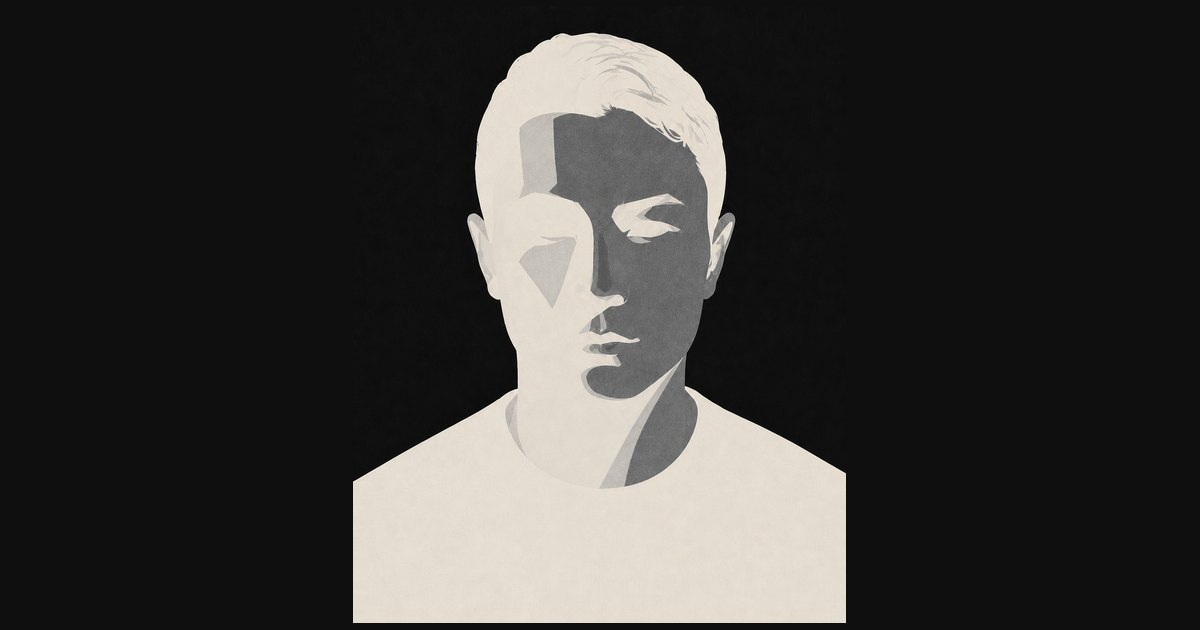
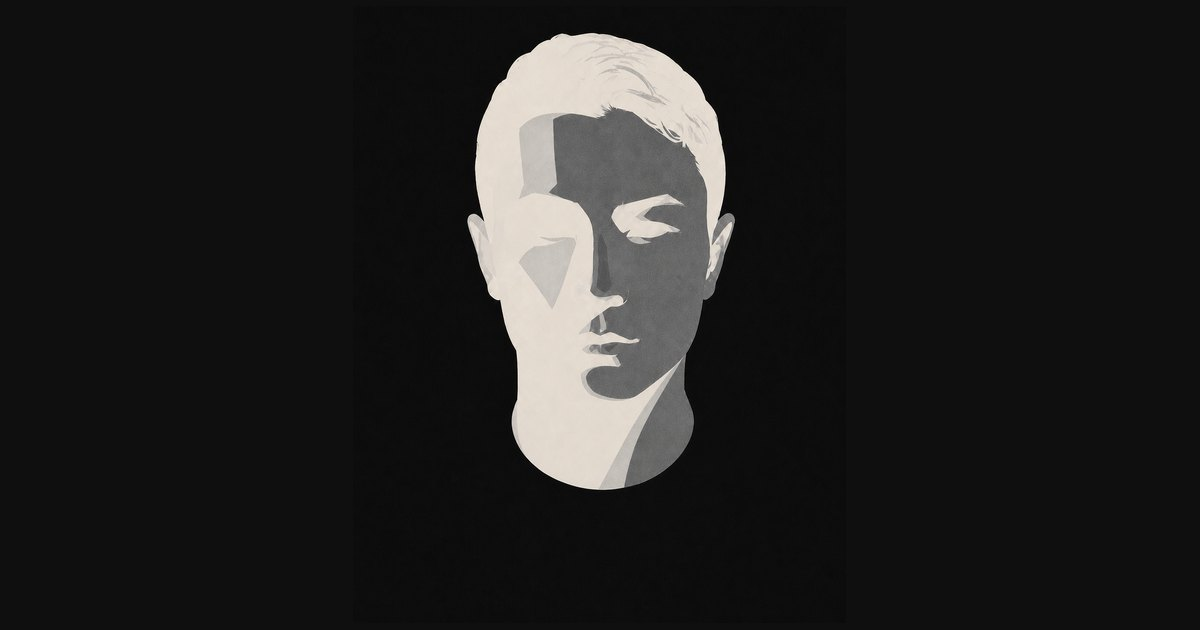
Rework homepage hero and refresh bio
- Replace the portrait with the head-and-neck artwork (no shoulders) and
  merge its ground into the column with mix-blend-mode over a matching
  --plate, so the image frame leaves no visible rectangle.
- Rebuild the hero as a continuous black editorial column at 38/62, with
  the portrait smaller and its head sitting at 35% of the column height.
- Bracket the quotation with slim bands of the same black at its head and
  foot on desktop; stacked layouts keep the foot band only.
- Add four quotations to the rotation (Sockman, Asimov, Harris,
  Kalanithi) — seven in all; rotation logic unchanged.
- Bio: drop the name heading (the section label is now the h1) and use the
  revised third-person biography, with metadata updated to match.
- Point Builds at geneleung.org/builds.

diff --git a/styles.css b/styles.css
@@ -9,7 +9,7 @@
   --ink: #14120e;
   --ink-soft: #3a362d;
   --ink-muted: #6b6355;
-  --plate: #0f0f0f;
+  --plate: #101010;
   --rule: rgba(20, 18, 14, 0.16);
   --rule-strong: rgba(20, 18, 14, 0.32);
 
@@ -19,6 +19,10 @@
     Arial, sans-serif;
 
   --masthead-h: 4.75rem;
+  --band: clamp(2.5rem, 5.5vh, 4rem);
+  /* The artwork's head sits at ~31% of its height, so a centred image already
+     places the head high in the column; this lifts it a little further. */
+  --head-shift: -5%;
   --gutter: clamp(1.25rem, 5vw, 4.5rem);
 }
 
@@ -172,37 +176,71 @@ a {
 
 .split {
   display: grid;
-  grid-template-columns: minmax(0, 46fr) minmax(0, 54fr);
+  grid-template-columns: minmax(0, 38fr) minmax(0, 62fr);
   flex: 1 1 auto;
   min-height: 0;
 }
 
+/* The black column is page architecture: the portrait sits low inside it,
+   surrounded by black, and the field continues as a band under the quotation. */
 .plate {
   background: var(--plate);
   display: flex;
   align-items: center;
   justify-content: center;
+  padding: 0 clamp(1rem, 2.5vw, 2.75rem);
   overflow: hidden;
 }
 
 .plate picture {
   display: block;
-  width: 100%;
-  height: 100%;
+  width: auto;
+  height: auto;
+  aspect-ratio: 1122 / 1402;
+  max-width: min(86%, 30rem);
+  max-height: 68%;
 }
 
+/* The artwork's own ground runs 10–16 in each channel, so blending it against a
+   --plate of the same top value flattens the frame away completely: the ground
+   resolves to exactly the column colour while every part of the figure (41 and
+   up) is left untouched. No masking, and no edit to the supplied file. */
 .portrait {
   width: 100%;
   height: 100%;
   object-fit: contain;
-  object-position: center;
+  transform: translateY(var(--head-shift));
+  mix-blend-mode: lighten;
 }
 
 .quotation {
+  position: relative;
   display: grid;
   align-content: center;
   justify-items: start;
   padding: clamp(3rem, 7vh, 6rem) clamp(1.5rem, 6vw, 6rem);
+  padding-top: calc(var(--band) + clamp(3rem, 7vh, 6rem));
+  padding-bottom: calc(var(--band) + clamp(3rem, 7vh, 6rem));
+}
+
+/* Slim continuations of the black column at the head and foot of the
+   quotation, bracketing it and tying the two sides together. */
+.quotation::before,
+.quotation::after {
+  content: "";
+  position: absolute;
+  right: 0;
+  left: 0;
+  height: var(--band);
+  background: var(--plate);
+}
+
+.quotation::before {
+  top: 0;
+}
+
+.quotation::after {
+  bottom: 0;
 }
 
 .quote {
@@ -276,8 +314,8 @@ html:not(.no-js) .quote.is-active {
   padding: clamp(3rem, 9vh, 6rem) var(--gutter) clamp(3.5rem, 10vh, 6rem);
 }
 
-.eyebrow {
-  margin: 0 0 1.4rem;
+.prose .eyebrow {
+  margin: 0 0 1.6rem;
   font-family: var(--sans);
   font-size: 0.74rem;
   font-weight: 500;
@@ -435,31 +473,44 @@ html:not(.no-js) .quote.is-active {
 @media (max-width: 899px) {
   .split {
     grid-template-columns: 1fr;
-    flex: 0 0 auto;
+    grid-template-rows: auto 1fr;
+    flex: 1 1 auto;
     min-height: 0;
     padding: clamp(1.75rem, 5vh, 3rem) var(--gutter) 0;
   }
 
-  /* The plate hugs the artwork so no dead black field appears around it. */
+  /* Stacked, the black field becomes a full-bleed band with the portrait
+     resting on its lower edge, aligned with the text below. */
   .plate {
-    justify-self: start;
-    height: auto;
+    --head-shift: -2%;
+    justify-self: stretch;
+    justify-content: flex-start;
+    margin-inline: calc(var(--gutter) * -1);
+    padding: 0 var(--gutter);
+    height: clamp(16rem, 40vh, 24rem);
+    height: clamp(16rem, 40svh, 24rem);
   }
 
-  .plate picture,
-  .portrait {
-    width: auto;
-    height: auto;
-    max-width: 100%;
-    max-height: min(48vh, 74vw);
-    max-height: min(48svh, 74vw);
-    /* The box already matches the artwork's ratio, so no fitting is needed. */
-    object-fit: fill;
+  .plate picture {
+    max-width: min(62%, 16rem);
+    max-height: 78%;
   }
 
   .quotation {
-    padding: clamp(2.25rem, 6vh, 3.25rem) 0 clamp(3rem, 9vh, 4.5rem);
+    padding: clamp(2.25rem, 6vh, 3.25rem) 0
+      calc(var(--band) + clamp(2rem, 6vh, 3.25rem));
     justify-items: start;
+  }
+
+  /* Stacked, the portrait's own band already caps the page, so only the foot
+     band remains — and it runs the full width. */
+  .quotation::before {
+    display: none;
+  }
+
+  .quotation::after {
+    right: calc(var(--gutter) * -1);
+    left: calc(var(--gutter) * -1);
   }
 
   .quote {

diff --git a/bio.html b/bio.html
@@ -5,7 +5,7 @@
     <meta name="viewport" content="width=device-width, initial-scale=1" />
 
     <title>Bio — Gene Leung</title>
-    <meta name="description" content="Gene Leung trained in medicine at CUHK and in orthopaedic surgery through the Hong Kong and Edinburgh fellowship systems, and holds an LLB from the University of London." />
+    <meta name="description" content="Gene Leung studied medicine and trained as an orthopaedic surgeon in Hong Kong, attaining fellowships locally and through Edinburgh, and later completed an LLB with the University of London." />
     <link rel="canonical" href="https://www.drgeneleung.com/bio" />
     <meta name="color-scheme" content="light" />
     <meta name="theme-color" content="#f4efe5" />
@@ -13,7 +13,7 @@
     <meta property="og:type" content="website" />
     <meta property="og:site_name" content="Gene Leung" />
     <meta property="og:title" content="Bio — Gene Leung" />
-    <meta property="og:description" content="Gene Leung trained in medicine at CUHK and in orthopaedic surgery through the Hong Kong and Edinburgh fellowship systems, and holds an LLB from the University of London." />
+    <meta property="og:description" content="Gene Leung studied medicine and trained as an orthopaedic surgeon in Hong Kong, attaining fellowships locally and through Edinburgh, and later completed an LLB with the University of London." />
     <meta property="og:url" content="https://www.drgeneleung.com/bio" />
     <meta property="og:image" content="https://www.drgeneleung.com/assets/og.jpg" />
     <meta property="og:image:width" content="1200" />
@@ -21,7 +21,7 @@
     <meta property="og:image:alt" content="Stylised editorial portrait of Gene Leung." />
     <meta name="twitter:card" content="summary_large_image" />
     <meta name="twitter:title" content="Bio — Gene Leung" />
-    <meta name="twitter:description" content="Gene Leung trained in medicine at CUHK and in orthopaedic surgery through the Hong Kong and Edinburgh fellowship systems, and holds an LLB from the University of London." />
+    <meta name="twitter:description" content="Gene Leung studied medicine and trained as an orthopaedic surgeon in Hong Kong, attaining fellowships locally and through Edinburgh, and later completed an LLB with the University of London." />
     <meta name="twitter:image" content="https://www.drgeneleung.com/assets/og.jpg" />
 
     <link rel="icon" href="assets/favicon.svg" type="image/svg+xml" />
@@ -52,7 +52,7 @@
             </a>
           </li>
           <li>
-            <a href="https://www.geneleung.org/" target="_blank" rel="noopener noreferrer">
+            <a href="https://www.geneleung.org/builds" target="_blank" rel="noopener noreferrer">
               Builds<span class="ext" aria-hidden="true">↗</span><span class="visually-hidden"> (opens in a new tab)</span>
             </a>
           </li>
@@ -62,14 +62,14 @@
     </header>
 
     <main id="main" class="prose">
-      <p class="eyebrow">Bio</p>
-      <h1>Gene Leung</h1>
+      <h1 class="eyebrow">Bio</h1>
 
       <p class="lead">
-        I trained in medicine at CUHK and in orthopaedic surgery through the Hong Kong
-        and Edinburgh fellowship systems. I later completed an LLB with the University
-        of London. My interests now sit at the intersection of medicine, technology,
-        systems, responsibility, and human judgment.
+        Gene studied medicine and trained as an orthopaedic surgeon in Hong Kong,
+        attaining fellowships locally and through Edinburgh. He later completed an
+        LLB with the University of London. Alongside his practice, he explores the
+        intersection of medicine, technology, systems, responsibility, and human
+        judgment.
       </p>
 
       <section class="quals" aria-labelledby="education">

diff --git a/index.html b/index.html
@@ -47,7 +47,7 @@
       type="image/webp"
       href="assets/portrait.webp"
       imagesrcset="assets/portrait-720.webp 720w, assets/portrait.webp 1122w"
-      imagesizes="(min-width: 900px) 46vw, 62vw"
+      imagesizes="(min-width: 900px) 30vw, 62vw"
     />
     <link rel="stylesheet" href="styles.css" />
     <script>
@@ -69,7 +69,7 @@
             </a>
           </li>
           <li>
-            <a href="https://www.geneleung.org/" target="_blank" rel="noopener noreferrer">
+            <a href="https://www.geneleung.org/builds" target="_blank" rel="noopener noreferrer">
               Builds<span class="ext" aria-hidden="true">↗</span><span class="visually-hidden"> (opens in a new tab)</span>
             </a>
           </li>
@@ -86,14 +86,14 @@
           <source
             type="image/webp"
             srcset="assets/portrait-720.webp 720w, assets/portrait.webp 1122w"
-            sizes="(min-width: 900px) 46vw, 62vw"
+            sizes="(min-width: 900px) 30vw, 62vw"
           />
           <img
             class="portrait"
             src="assets/portrait.jpg"
             width="1122"
             height="1402"
-            alt="Stylised editorial portrait of Gene Leung: a head-and-shoulders figure rendered in ivory and grey against a black field."
+            alt="Stylised editorial portrait of Gene Leung: a head and neck rendered in ivory and grey against a black field."
             fetchpriority="high"
             decoding="async"
           />
@@ -121,6 +121,34 @@
           </blockquote>
           <figcaption><cite>Bertrand Russell</cite></figcaption>
         </figure>
+
+        <figure class="quote">
+          <blockquote>
+            <p>“The larger the island of knowledge, the longer the shoreline of wonder.”</p>
+          </blockquote>
+          <figcaption><cite>Ralph W. Sockman</cite></figcaption>
+        </figure>
+
+        <figure class="quote">
+          <blockquote>
+            <p>“By finding it impossible to eliminate a possibility, a beginning is made at establishing one.”</p>
+          </blockquote>
+          <figcaption><cite>Isaac Asimov</cite></figcaption>
+        </figure>
+
+        <figure class="quote">
+          <blockquote>
+            <p>“You are not controlling the storm, and you are not lost in it. You are the storm.”</p>
+          </blockquote>
+          <figcaption><cite>Sam Harris</cite></figcaption>
+        </figure>
+
+        <figure class="quote">
+          <blockquote>
+            <p>“If the unexamined life was not worth living, was the unlived life worth examining?”</p>
+          </blockquote>
+          <figcaption><cite>Paul Kalanithi</cite></figcaption>
+        </figure>
       </div>
     </main>
 
@@ -134,7 +162,7 @@
         "url": "https://www.drgeneleung.com/",
         "sameAs": [
           "https://geneleung.substack.com/",
-          "https://www.geneleung.org/",
+          "https://www.geneleung.org/builds",
           "https://www.linkedin.com/in/geneleung"
         ]
       }

diff --git a/404.html b/404.html
@@ -52,7 +52,7 @@
             </a>
           </li>
           <li>
-            <a href="https://www.geneleung.org/" target="_blank" rel="noopener noreferrer">
+            <a href="https://www.geneleung.org/builds" target="_blank" rel="noopener noreferrer">
               Builds<span class="ext" aria-hidden="true">↗</span><span class="visually-hidden"> (opens in a new tab)</span>
             </a>
           </li>

diff --git a/contact.html b/contact.html
@@ -52,7 +52,7 @@
             </a>
           </li>
           <li>
-            <a href="https://www.geneleung.org/" target="_blank" rel="noopener noreferrer">
+            <a href="https://www.geneleung.org/builds" target="_blank" rel="noopener noreferrer">
               Builds<span class="ext" aria-hidden="true">↗</span><span class="visually-hidden"> (opens in a new tab)</span>
             </a>
           </li>
